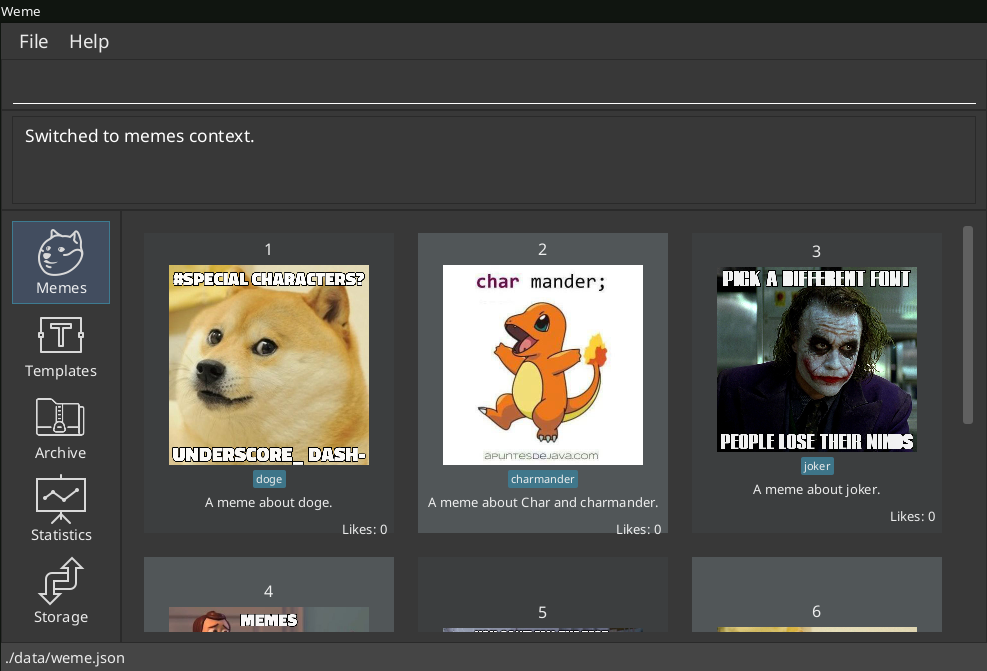
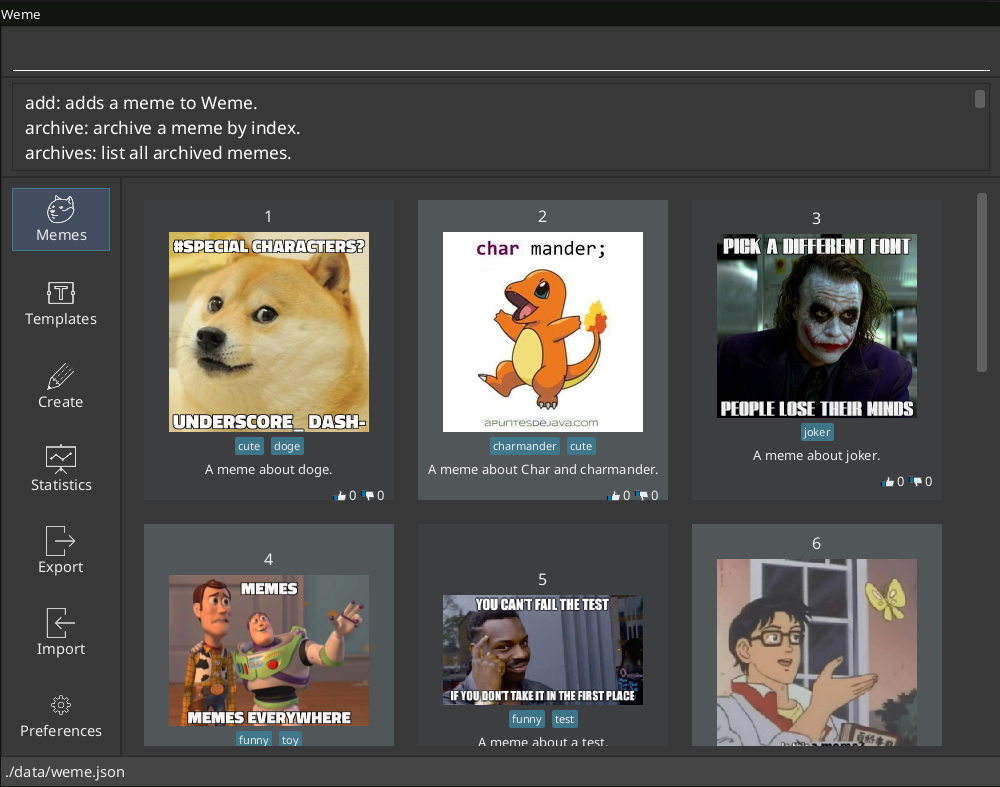
Rebuild pages at c5a2767f72590a0191eed18252e58c0bfd49d5fe

diff --git a/DeveloperGuide.html b/DeveloperGuide.html
@@ -1391,8 +1391,7 @@ The following class diagram summarizes the Prompter package in the Logic.</p>
 <h3 id="tabs-feature"><a class="link" href="#tabs-feature">3.7. Tabs feature</a></h3>
 <div class="paragraph">
 <p>Most features in Weme can be logically grouped together.
-For example, listing memes and viewing a single meme forms a group,
-whereas listing templates, statistics, import, and export form their own respective groups.
+For example, commands that list, view, add, edit, or delete templates all deal with templates and can fall under a single group.
 As such, it seems logical for us to separate distinct groups of features at the UI level to make it more intuitive to the user.
 We achieve this by putting each group of features into a tab.</p>
 </div>
@@ -1404,9 +1403,8 @@ Within each context, Weme exposes different commands and has different behaviors
 </div>
 <div class="paragraph">
 <p>Tabs can be roughly seen as the reflection of <code>ModelContext</code> at the UI level.
-For example, when the <code>ModelContext</code> changes from <code>Memes</code> to <code>Templates</code>, the UI should switch from the <strong>Memes</strong> tab to the <strong>Templates</strong> tab.
-However, a tab can house multiple contexts.
-For example, both <strong>Memes</strong> context for viewing multiple memes and <strong>Meme</strong> context for viewing a single meme will be under the <strong>Memes</strong> tab.</p>
+Besides having different commands and behaviours, each tab also has its own UI components.
+For example, when the <code>ModelContext</code> changes from <code>Memes</code> to <code>Templates</code>, the UI should switch from the <strong>Memes</strong> tab to the <strong>Templates</strong> tab.</p>
 </div>
 <div class="paragraph">
 <p>Shown below are the tabs and their associated `ModelContext`s.</p>
@@ -1418,10 +1416,7 @@ For example, both <strong>Memes</strong> context for viewing multiple memes and 
 <div class="ulist">
 <ul>
 <li>
-<p>Memes (showing multiple memes)</p>
-</li>
-<li>
-<p>Meme (viewing a particular meme) (<em>to be added</em>)</p>
+<p>Memes (meme management)</p>
 </li>
 </ul>
 </div>
@@ -1439,7 +1434,17 @@ For example, both <strong>Memes</strong> context for viewing multiple memes and 
 <div class="ulist">
 <ul>
 <li>
-<p>Templates (showing all templates)</p>
+<p>Templates (template management)</p>
+</li>
+</ul>
+</div>
+</li>
+<li>
+<p><strong>Create</strong> tab</p>
+<div class="ulist">
+<ul>
+<li>
+<p>Meme creation. Displays placeholder text if no creation session is going on.</p>
 </li>
 </ul>
 </div>
@@ -1447,21 +1452,11 @@ For example, both <strong>Memes</strong> context for viewing multiple memes and 
 </ul>
 </div>
 <div class="paragraph">
-<div class="title">Screenshot of Weme in the <strong>Templates</strong> tab</div>
-<p><span class="image"><img src="images/TemplatesTabScreenshot.png" alt="TemplatesTabScreenshot"></span></p>
+<div class="title">Screenshot of Weme in the <strong>Create</strong> tab</div>
+<p><span class="image"><img src="images/CreateTabScreenshot.png" alt="CreateTabScreenshot"></span></p>
 </div>
 <div class="ulist">
 <ul>
-<li>
-<p><strong>Create</strong> tab</p>
-<div class="ulist">
-<ul>
-<li>
-<p>Current meme creation session. Displays placeholder text if no session is going on.</p>
-</li>
-</ul>
-</div>
-</li>
 <li>
 <p><strong>Statistics</strong> tab</p>
 <div class="ulist">
@@ -1516,7 +1511,7 @@ For example, both <strong>Memes</strong> context for viewing multiple memes and 
 <p>can be changed by <code>Comamnd</code> execution.</p>
 </li>
 <li>
-<p>is exposed in <code>Logic</code>.</p>
+<p>is exposed in <code>Logic</code> as an <code>ObservableValue</code></p>
 </li>
 <li>
 <p>is observed by <code>MainWindow</code> to update the UI.</p>
@@ -1569,39 +1564,6 @@ For example, both <strong>Memes</strong> context for viewing multiple memes and 
 </li>
 <li>
 <p>Cons: Users who prefer a keyboard-driven workflow might not want to use the mouse.</p>
-</li>
-</ul>
-</div>
-</li>
-</ul>
-</div>
-</div>
-<div class="sect4">
-<h5 id="aspect-number-of-contexts-a-tab-should-have"><a class="link" href="#aspect-number-of-contexts-a-tab-should-have">Aspect: Number of contexts a tab should have</a></h5>
-<div class="ulist">
-<ul>
-<li>
-<p><strong>Alternative 1 (current choice):</strong> Each tab can have multiple contexts.</p>
-<div class="ulist">
-<ul>
-<li>
-<p>Pros: More intuitive to the user, less screen space wasted for extra tabs.</p>
-</li>
-<li>
-<p>Cons: More difficult to implement. Need to be careful about which commands can change the context.</p>
-</li>
-</ul>
-</div>
-</li>
-<li>
-<p><strong>Alternative 2:</strong> Each tab has exactly one context.</p>
-<div class="ulist">
-<ul>
-<li>
-<p>Pros: Easy to implement.</p>
-</li>
-<li>
-<p>Cons: Similar features not closely grouped together, more tabs for the same amount of features.</p>
 </li>
 </ul>
 </div>
@@ -2310,4 +2272,4 @@ Expected: Similar to previous.</p>
 </div>
 </div>
 </div>
-</div></div><div id="footer"><div class="container"><div id="footer-text">Last updated 2019-11-10 09:28:19 UTC</div></div></div></body></html>
+</div></div><div id="footer"><div class="container"><div id="footer-text">Last updated 2019-11-10 14:11:30 UTC</div></div></div></body></html>

diff --git a/UserGuide.html b/UserGuide.html
@@ -833,7 +833,10 @@ Format: <code>create [d/DESCRIPTION] [t/TAG]&#8230;&#8203;</code></p>
 <div class="ulist">
 <ul>
 <li>
-<p>This command does not modify the template you used to start the creation session.</p>
+<p>This command does not modify the template you used to start the creation session. You can use the same template to make more memes.</p>
+</li>
+<li>
+<p>You will be directly to view the meme you have created. To continue making new memes, use <code>tab templates</code> to go to the templates tab.</p>
 </li>
 </ul>
 </div>
@@ -1239,4 +1242,4 @@ e.g. <code>add p//Users/Me/Downloads/dgirl_oof.jpg d/Disaster Girl t/Funny</code
 </ul>
 </div>
 </div>
-</div></div><div id="footer"><div class="container"><div id="footer-text">Last updated 2019-11-10 09:28:19 UTC</div></div></div></body></html>
+</div></div><div id="footer"><div class="container"><div id="footer-text">Last updated 2019-11-10 14:11:30 UTC</div></div></div></body></html>

diff --git a/team/gary-lgy.html b/team/gary-lgy.html
@@ -335,7 +335,10 @@ Format: <code>create [d/DESCRIPTION] [t/TAG]&#8230;&#8203;</code></p>
 <div class="ulist">
 <ul>
 <li>
-<p>This command does not modify the template you used to start the creation session.</p>
+<p>This command does not modify the template you used to start the creation session. You can use the same template to make more memes.</p>
+</li>
+<li>
+<p>You will be directly to view the meme you have created. To continue making new memes, use <code>tab templates</code> to go to the templates tab.</p>
 </li>
 </ul>
 </div>
@@ -554,4 +557,4 @@ For example, <code>a</code> to add a piece of text, arrow keys to adjust the pos
 </div>
 </div>
 </div>
-</div></div><div id="footer"><div class="container"><div id="footer-text">Last updated 2019-11-10 09:28:19 UTC</div></div></div></body></html>
+</div></div><div id="footer"><div class="container"><div id="footer-text">Last updated 2019-11-10 14:11:30 UTC</div></div></div></body></html>

diff --git a/tutorials/RemovingFields.html b/tutorials/RemovingFields.html
@@ -175,4 +175,4 @@ While keeping the <code>address</code> field in the json files does not cause th
 <p>You can go through each individual <code>json</code> file and manually remove the <code>address</code> field.</p>
 </div>
 </div>
-</div></div><div id="footer"><div class="container"><div id="footer-text">Last updated 2019-11-10 09:28:19 UTC</div></div></div></body></html>
+</div></div><div id="footer"><div class="container"><div id="footer-text">Last updated 2019-11-10 14:11:30 UTC</div></div></div></body></html>

diff --git a/tutorials/AddRemark.html b/tutorials/AddRemark.html
@@ -616,4 +616,4 @@ In this case, <code>CommandTestUtil#assertCommandSuccess</code> is the best fit 
 <p>This concludes the tutorial for adding a new <code>Command</code> to AddressBook.</p>
 </div>
 </div>
-</div></div><div id="footer"><div class="container"><div id="footer-text">Last updated 2019-11-10 09:28:19 UTC</div></div></div></body></html>
+</div></div><div id="footer"><div class="container"><div id="footer-text">Last updated 2019-11-10 14:11:30 UTC</div></div></div></body></html>

diff --git a/Testing.html b/Testing.html
@@ -90,4 +90,4 @@ e.g. <code>seedu.weme.logic.LogicManagerTest</code></p>
 <div class="title">Figure 1. <code>Accessibility</code> permission is granted to <code>IntelliJ IDEA</code></div>
 </div>
 </div>
-</div></div><div id="footer"><div class="container"><div id="footer-text">Last updated 2019-11-10 09:28:19 UTC</div></div></div></body></html>
+</div></div><div id="footer"><div class="container"><div id="footer-text">Last updated 2019-11-10 14:11:30 UTC</div></div></div></body></html>

diff --git a/ContactUs.html b/ContactUs.html
@@ -12,4 +12,4 @@
 <p><strong>Email us</strong> : You can also reach us at <code>cs2103t163@gmail.com</code></p>
 </li>
 </ul>
-</div></div><div id="footer"><div class="container"><div id="footer-text">Last updated 2019-11-10 09:28:19 UTC</div></div></div></body></html>
+</div></div><div id="footer"><div class="container"><div id="footer-text">Last updated 2019-11-10 14:11:30 UTC</div></div></div></body></html>

diff --git a/LearningOutcomes.html b/LearningOutcomes.html
@@ -474,4 +474,4 @@ of storages, but different number of storages (e.g. save to both a text file and
 </div>
 </div>
 </div>
-</div></div><div id="footer"><div class="container"><div id="footer-text">Last updated 2019-11-10 09:28:19 UTC</div></div></div></body></html>
+</div></div><div id="footer"><div class="container"><div id="footer-text">Last updated 2019-11-10 14:11:30 UTC</div></div></div></body></html>

diff --git a/SettingUp.html b/SettingUp.html
@@ -180,4 +180,4 @@ Having both Travis and AppVeyor ensures your App works on both Unix-based platfo
 </div>
 </div>
 </div>
-</div></div><div id="footer"><div class="container"><div id="footer-text">Last updated 2019-11-10 09:28:19 UTC</div></div></div></body></html>
+</div></div><div id="footer"><div class="container"><div id="footer-text">Last updated 2019-11-10 14:11:30 UTC</div></div></div></body></html>

diff --git a/team/jonchan51.html b/team/jonchan51.html
@@ -578,4 +578,4 @@ If the <code>stateIndex</code> is at index <code>versionedWemeStates.size() - 1<
 </div>
 </div>
 </div>
-</div></div><div id="footer"><div class="container"><div id="footer-text">Last updated 2019-11-10 09:28:19 UTC</div></div></div></body></html>
+</div></div><div id="footer"><div class="container"><div id="footer-text">Last updated 2019-11-10 14:11:30 UTC</div></div></div></body></html>

diff --git a/UsingCoveralls.html b/UsingCoveralls.html
@@ -111,4 +111,4 @@ If you have not set up Travis CI, see <a href="UsingTravis.html">UsingTravis.ado
 </ol>
 </div>
 </div>
-</div></div><div id="footer"><div class="container"><div id="footer-text">Last updated 2019-11-10 09:28:19 UTC</div></div></div></body></html>
+</div></div><div id="footer"><div class="container"><div id="footer-text">Last updated 2019-11-10 14:11:30 UTC</div></div></div></body></html>

diff --git a/UsingGradle.html b/UsingGradle.html
@@ -228,4 +228,4 @@ See <code>build.gradle</code> &#8594; <code>allprojects</code> &#8594; <code>dep
 </ul>
 </div>
 </div>
-</div></div><div id="footer"><div class="container"><div id="footer-text">Last updated 2019-11-10 09:28:19 UTC</div></div></div></body></html>
+</div></div><div id="footer"><div class="container"><div id="footer-text">Last updated 2019-11-10 14:11:30 UTC</div></div></div></body></html>
